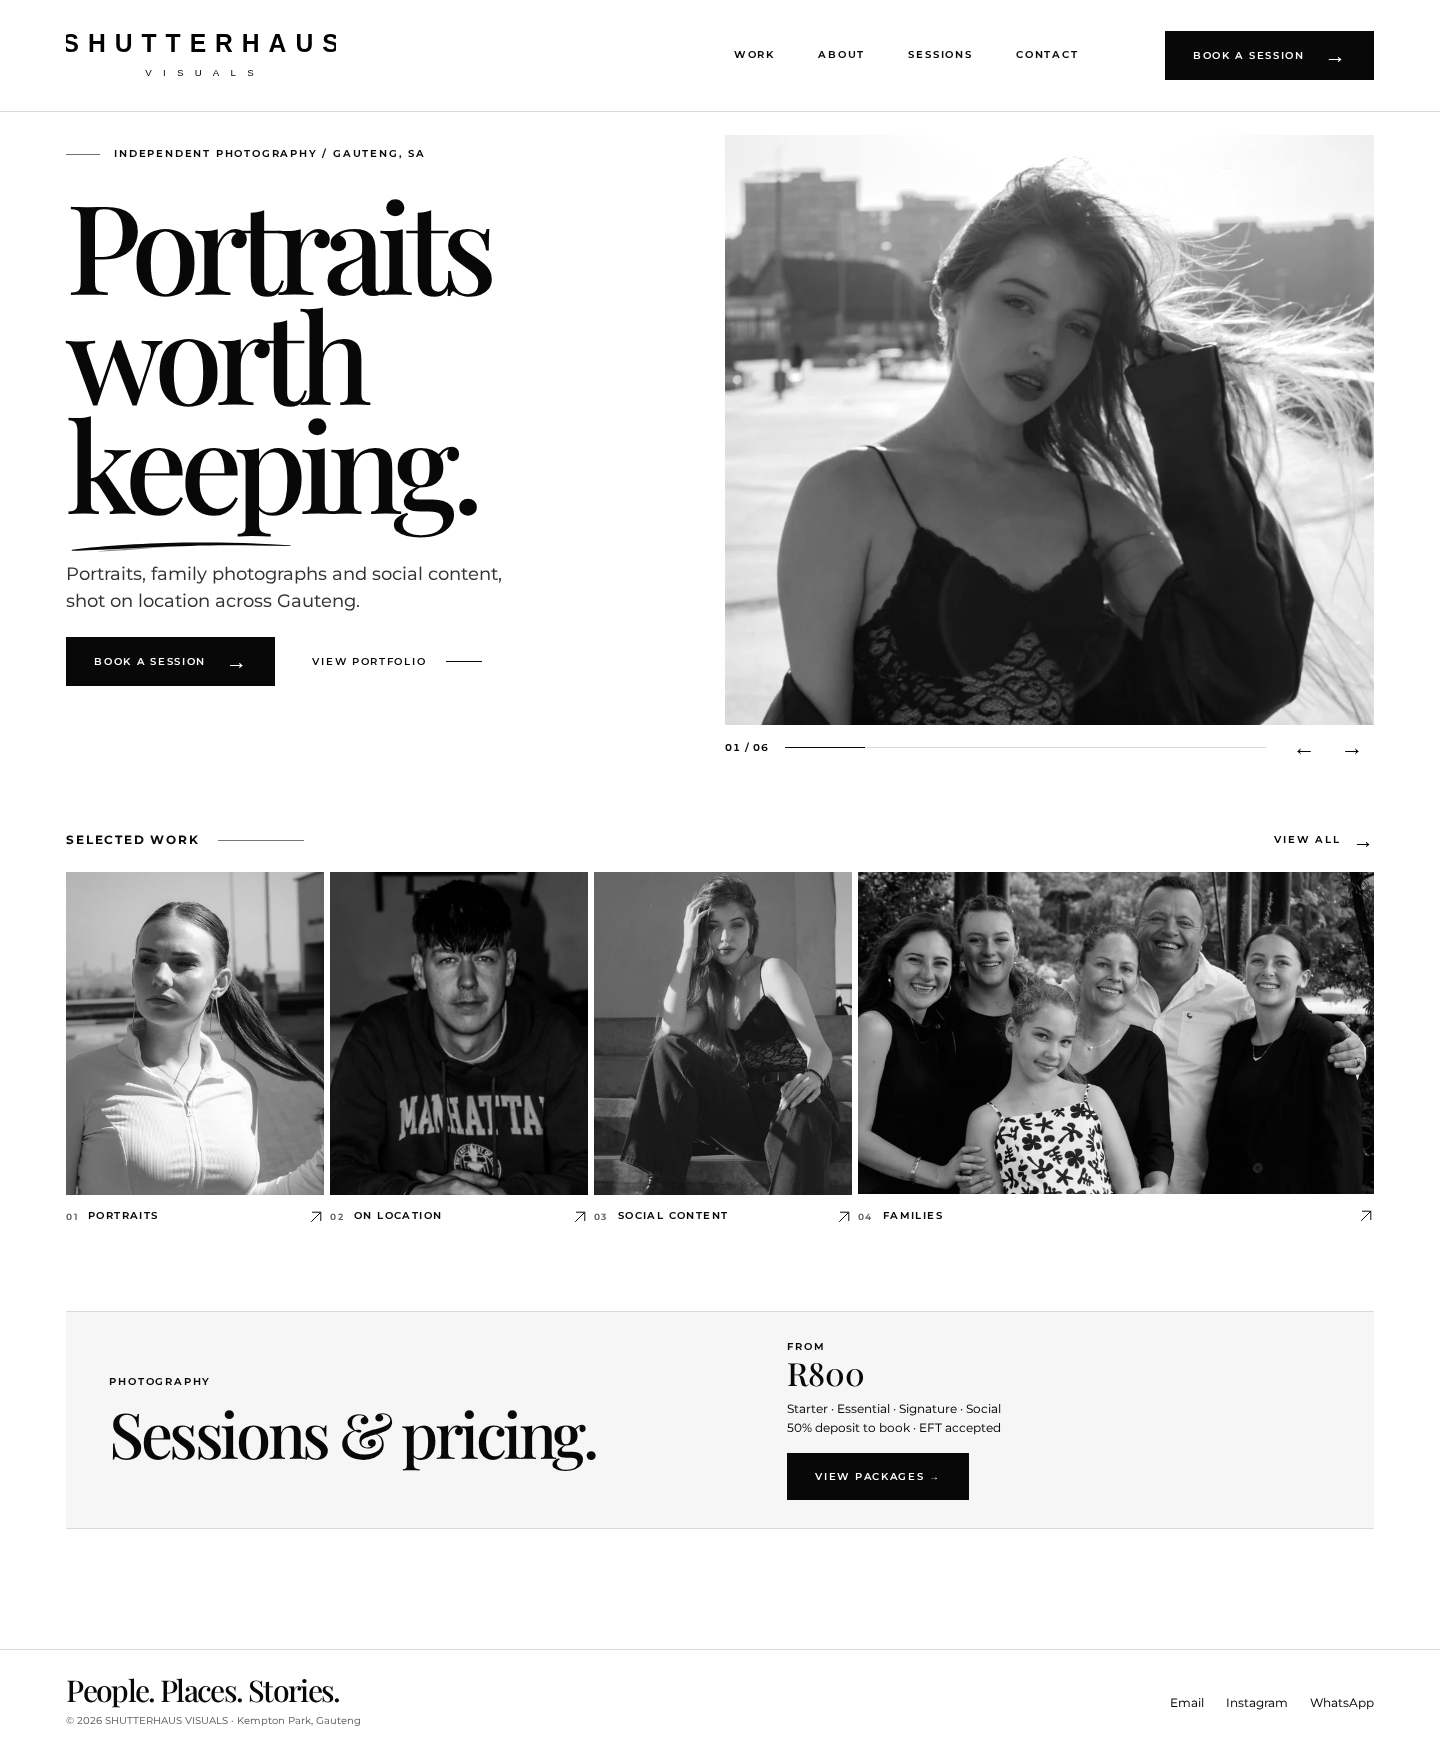
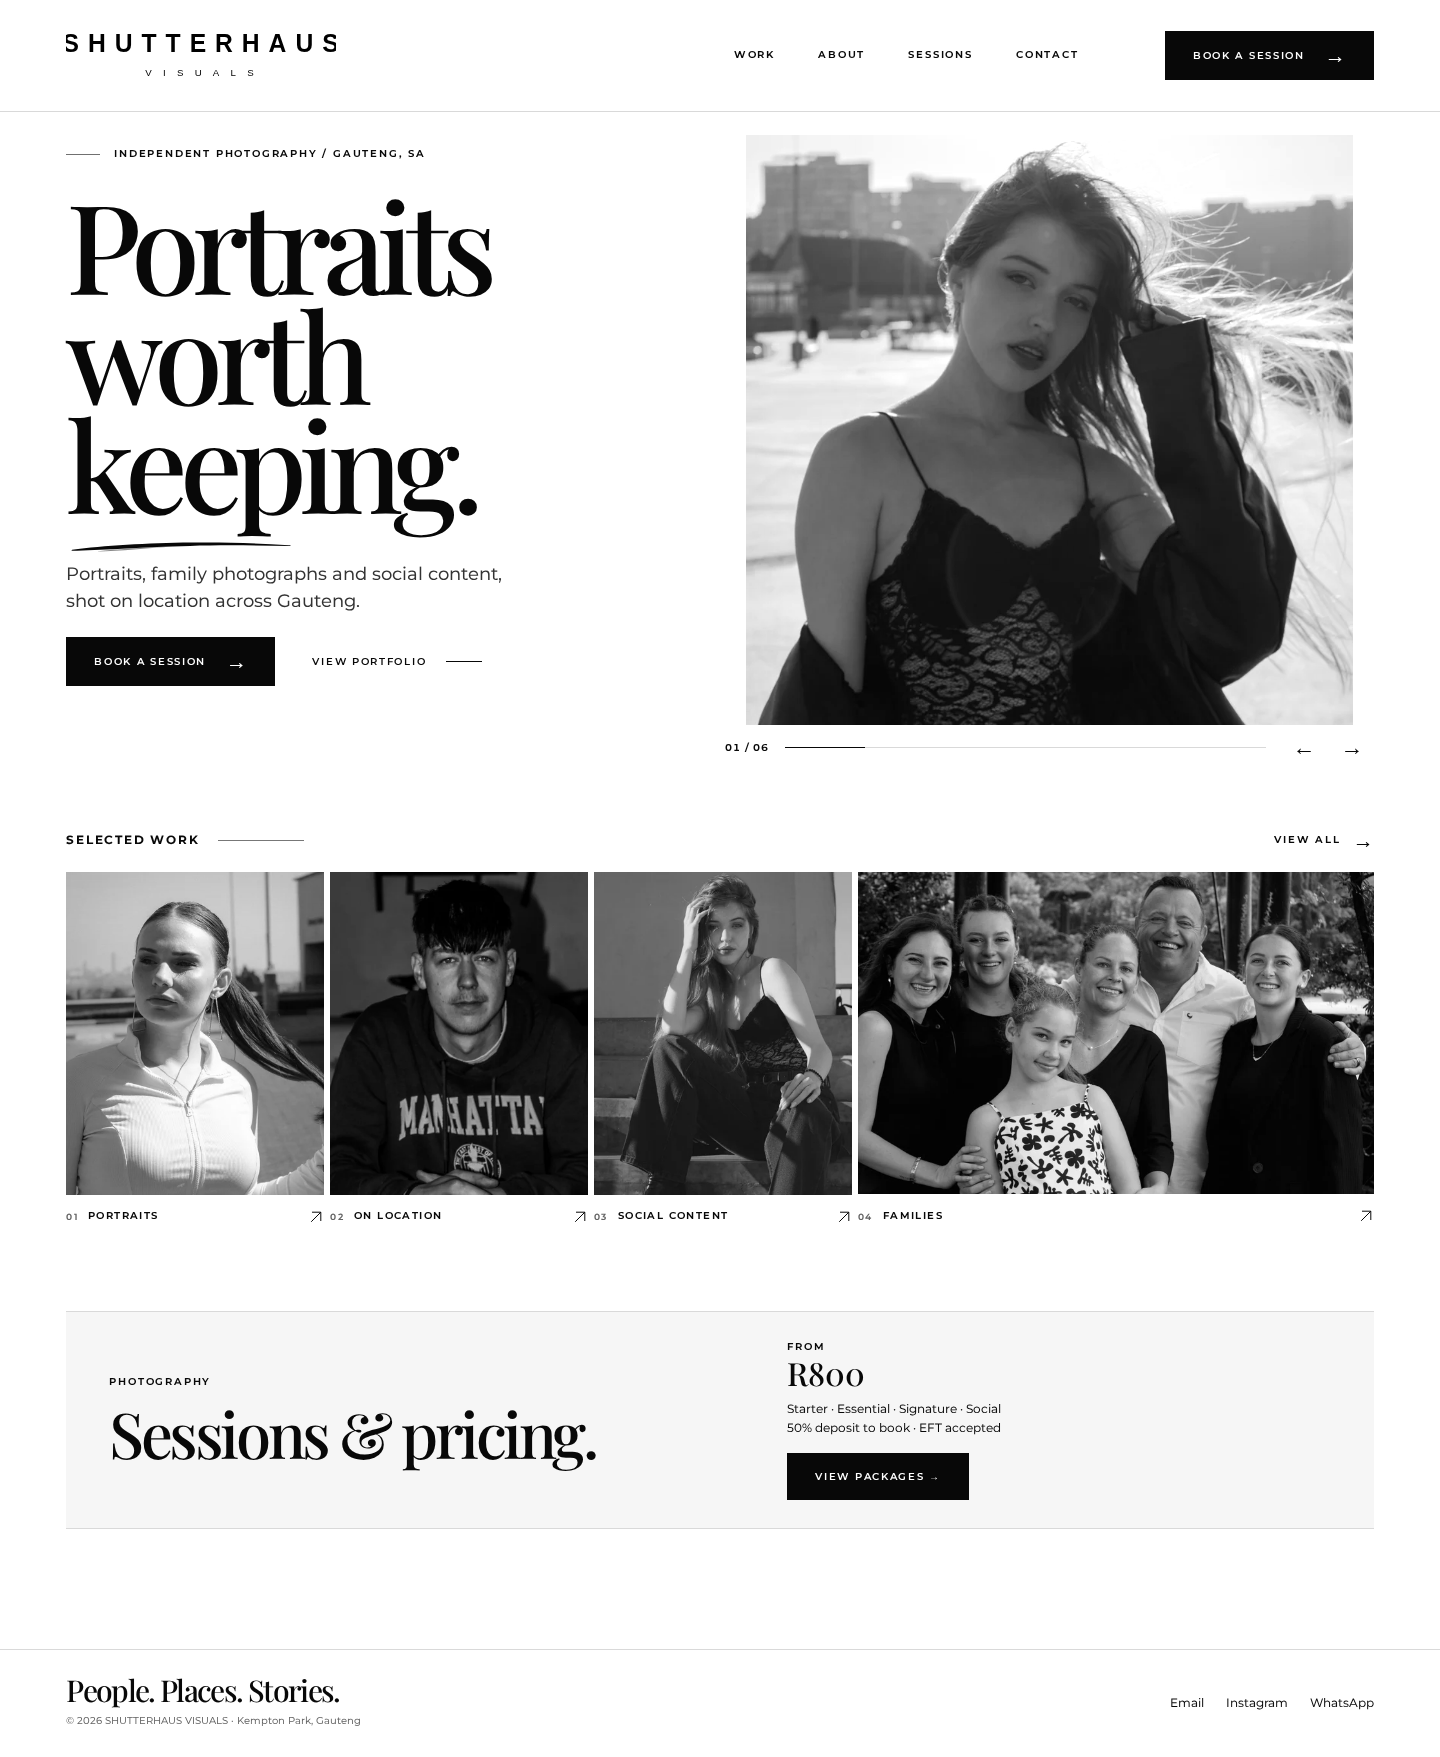
Frame each of the six homepage hero photographs for its composition

Changed region(s): [[0.5, 0.0615, 0.9688, 0.4303]]

diff --git a/index.html b/index.html
@@ -173,24 +173,24 @@
     <div class="hero">
       <div class="hero__title"><p class="eyebrow eyebrow--rule"><span>Independent photography / <span class="hero__location">Gauteng, SA</span></span></p>
         <h1 class="hero__h">Portraits<br> worth<br> <span class="hero__signoff">keeping.<svg class="hero__underline" viewBox="0 0 192 11" aria-hidden="true" focusable="false"><path fill="currentColor" d="M1 8.4C28 4.9 66 2.6 104.6 2.2c26.5-.4 54.2.4 84.7 2.4 1.9.2 2.4.6.5.7-31.9-.7-60.9-1-86.5-.1C62.4 6.1 30.3 8.7 5.2 9.3c-4.3.1-5.9-.2-4.2-.9Z"/><path fill="currentColor" opacity=".48" d="M22 10c19.2-2.1 38.5-3.2 62.7-4.1-17.8 1.4-40.8 3.7-62.7 4.1Z"/></svg></span></h1></div>
-      <div class="hero__media"><div class="hero__plate"><figure class="hero__fig" data-frame="c7"><picture class="hero-photo" style="--focal:center top"><source type="image/webp" srcset="gallery/22-img-0239-400w.webp 400w, gallery/22-img-0239-560w.webp 560w, gallery/22-img-0239-800w.webp 800w, gallery/22-img-0239-1200w.webp 1200w, gallery/22-img-0239-1600w.webp 1600w" sizes="(max-width: 759px) 92vw, (max-width: 1536px) 47vw, 685px" />
+      <div class="hero__media"><div class="hero__plate"><figure class="hero__fig" data-frame="c7"><picture class="hero-photo" style="--photo-ratio:1.03;--focal:50% 12%"><source type="image/webp" srcset="gallery/22-img-0239-400w.webp 400w, gallery/22-img-0239-560w.webp 560w, gallery/22-img-0239-800w.webp 800w, gallery/22-img-0239-1200w.webp 1200w, gallery/22-img-0239-1600w.webp 1600w" sizes="(max-width: 759px) 92vw, (max-width: 1536px) 47vw, 685px" />
         <source type="image/jpeg" srcset="gallery/22-img-0239-400w.jpg 400w, gallery/22-img-0239-560w.jpg 560w, gallery/22-img-0239-800w.jpg 800w, gallery/22-img-0239-1200w.jpg 1200w, gallery/22-img-0239-1600w.jpg 1600w" sizes="(max-width: 759px) 92vw, (max-width: 1536px) 47vw, 685px" /><img src="gallery/22-img-0239-1600w.jpg" alt="Close portrait of a woman with loose hair, warm light across her face"
       width="2065" height="2400" decoding="async" loading="eager" fetchpriority="high" /></picture></figure></div><div class="hero__controls" role="group" aria-label="Featured photographs" style="--frame-progress:0.16666666666666666" hidden>
       <span data-slide-count aria-live="polite" aria-atomic="true">01 / 06</span>
       <span class="hero__track" aria-hidden="true"></span>
       <button type="button" data-step="-1" aria-label="Previous featured photograph"><span aria-hidden="true">←</span></button>
       <button type="button" data-step="1" aria-label="Next featured photograph"><span aria-hidden="true">→</span></button>
-    </div><p class="hero__notice" role="status"></p><template data-slide="c7"><picture class="hero-photo" style="--focal:center top"><source type="image/webp" srcset="gallery/22-img-0239-400w.webp 400w, gallery/22-img-0239-560w.webp 560w, gallery/22-img-0239-800w.webp 800w, gallery/22-img-0239-1200w.webp 1200w, gallery/22-img-0239-1600w.webp 1600w" sizes="(max-width: 759px) 92vw, (max-width: 1536px) 47vw, 685px" />
+    </div><p class="hero__notice" role="status"></p><template data-slide="c7"><picture class="hero-photo" style="--photo-ratio:1.03;--focal:50% 12%"><source type="image/webp" srcset="gallery/22-img-0239-400w.webp 400w, gallery/22-img-0239-560w.webp 560w, gallery/22-img-0239-800w.webp 800w, gallery/22-img-0239-1200w.webp 1200w, gallery/22-img-0239-1600w.webp 1600w" sizes="(max-width: 759px) 92vw, (max-width: 1536px) 47vw, 685px" />
         <source type="image/jpeg" srcset="gallery/22-img-0239-400w.jpg 400w, gallery/22-img-0239-560w.jpg 560w, gallery/22-img-0239-800w.jpg 800w, gallery/22-img-0239-1200w.jpg 1200w, gallery/22-img-0239-1600w.jpg 1600w" sizes="(max-width: 759px) 92vw, (max-width: 1536px) 47vw, 685px" /><img src="gallery/22-img-0239-1600w.jpg" alt="Close portrait of a woman with loose hair, warm light across her face"
-      width="2065" height="2400" decoding="async" loading="eager" fetchpriority="high" /></picture></template><template data-slide="c43"><picture class="hero-photo" style="--focal:50% 2.5%"><source type="image/webp" srcset="gallery/5-img-0086-400w.webp 400w, gallery/5-img-0086-560w.webp 560w, gallery/5-img-0086-800w.webp 800w, gallery/5-img-0086-1200w.webp 1200w, gallery/5-img-0086-1600w.webp 1600w" sizes="(max-width: 759px) 92vw, (max-width: 1536px) 47vw, 685px" />
+      width="2065" height="2400" decoding="async" loading="eager" fetchpriority="high" /></picture></template><template data-slide="c43"><picture class="hero-photo" style="--photo-ratio:0.7;--focal:50% 0%"><source type="image/webp" srcset="gallery/5-img-0086-400w.webp 400w, gallery/5-img-0086-560w.webp 560w, gallery/5-img-0086-800w.webp 800w, gallery/5-img-0086-1200w.webp 1200w, gallery/5-img-0086-1600w.webp 1600w" sizes="(max-width: 759px) 92vw, (max-width: 1536px) 47vw, 685px" />
         <source type="image/jpeg" srcset="gallery/5-img-0086-400w.jpg 400w, gallery/5-img-0086-560w.jpg 560w, gallery/5-img-0086-800w.jpg 800w, gallery/5-img-0086-1200w.jpg 1200w, gallery/5-img-0086-1600w.jpg 1600w" sizes="(max-width: 759px) 92vw, (max-width: 1536px) 47vw, 685px" /><img src="gallery/5-img-0086-1600w.jpg" alt="A seated man in a Manhattan sweatshirt looks into the camera, hands clasped"
-      width="1600" height="2400" decoding="async" loading="eager" fetchpriority="high" /></picture></template><template data-slide="c47"><picture class="hero-photo" style="--focal:50% 29%"><source type="image/webp" srcset="gallery/2-20240718114526-img-0124-400w.webp 400w, gallery/2-20240718114526-img-0124-560w.webp 560w, gallery/2-20240718114526-img-0124-800w.webp 800w, gallery/2-20240718114526-img-0124-1200w.webp 1200w, gallery/2-20240718114526-img-0124-1600w.webp 1600w" sizes="(max-width: 759px) 92vw, (max-width: 1536px) 47vw, 685px" />
+      width="1600" height="2400" decoding="async" loading="eager" fetchpriority="high" /></picture></template><template data-slide="c47"><picture class="hero-photo" style="--photo-ratio:0.82;--focal:50% 55%"><source type="image/webp" srcset="gallery/2-20240718114526-img-0124-400w.webp 400w, gallery/2-20240718114526-img-0124-560w.webp 560w, gallery/2-20240718114526-img-0124-800w.webp 800w, gallery/2-20240718114526-img-0124-1200w.webp 1200w, gallery/2-20240718114526-img-0124-1600w.webp 1600w" sizes="(max-width: 759px) 92vw, (max-width: 1536px) 47vw, 685px" />
         <source type="image/jpeg" srcset="gallery/2-20240718114526-img-0124-400w.jpg 400w, gallery/2-20240718114526-img-0124-560w.jpg 560w, gallery/2-20240718114526-img-0124-800w.jpg 800w, gallery/2-20240718114526-img-0124-1200w.jpg 1200w, gallery/2-20240718114526-img-0124-1600w.jpg 1600w" sizes="(max-width: 759px) 92vw, (max-width: 1536px) 47vw, 685px" /><img src="gallery/2-20240718114526-img-0124-1600w.jpg" alt="Portrait of a woman in a white top outdoors, hair pulled back, in bright light"
-      width="1600" height="2400" decoding="async" loading="eager" fetchpriority="high" /></picture></template><template data-slide="c1"><picture class="hero-photo" style="--focal:50% 0%"><source type="image/webp" srcset="gallery/20-img-0202-400w.webp 400w, gallery/20-img-0202-560w.webp 560w, gallery/20-img-0202-800w.webp 800w, gallery/20-img-0202-1200w.webp 1200w" sizes="(max-width: 759px) 92vw, (max-width: 1536px) 47vw, 685px" />
+      width="1600" height="2400" decoding="async" loading="eager" fetchpriority="high" /></picture></template><template data-slide="c1"><picture><source type="image/webp" srcset="gallery/20-img-0202-400w.webp 400w, gallery/20-img-0202-560w.webp 560w, gallery/20-img-0202-800w.webp 800w, gallery/20-img-0202-1200w.webp 1200w" sizes="(max-width: 759px) 92vw, (max-width: 1536px) 47vw, 685px" />
         <source type="image/jpeg" srcset="gallery/20-img-0202-400w.jpg 400w, gallery/20-img-0202-560w.jpg 560w, gallery/20-img-0202-800w.jpg 800w, gallery/20-img-0202-1200w.jpg 1200w" sizes="(max-width: 759px) 92vw, (max-width: 1536px) 47vw, 685px" /><img src="gallery/20-img-0202-1200w.jpg" alt="A woman in black seated on sunlit outdoor steps with her hand in her hair"
-      width="1350" height="2400" decoding="async" loading="eager" fetchpriority="high" /></picture></template><template data-slide="c16"><picture class="hero-photo--full" style="--focal:50% 0%"><source type="image/webp" srcset="gallery/54-img-0164-400w.webp 400w, gallery/54-img-0164-560w.webp 560w, gallery/54-img-0164-800w.webp 800w, gallery/54-img-0164-1200w.webp 1200w, gallery/54-img-0164-1600w.webp 1600w" sizes="(max-width: 759px) 92vw, (max-width: 1536px) 47vw, 685px" />
+      width="1350" height="2400" decoding="async" loading="eager" fetchpriority="high" /></picture></template><template data-slide="c16"><picture><source type="image/webp" srcset="gallery/54-img-0164-400w.webp 400w, gallery/54-img-0164-560w.webp 560w, gallery/54-img-0164-800w.webp 800w, gallery/54-img-0164-1200w.webp 1200w, gallery/54-img-0164-1600w.webp 1600w" sizes="(max-width: 759px) 92vw, (max-width: 1536px) 47vw, 685px" />
         <source type="image/jpeg" srcset="gallery/54-img-0164-400w.jpg 400w, gallery/54-img-0164-560w.jpg 560w, gallery/54-img-0164-800w.jpg 800w, gallery/54-img-0164-1200w.jpg 1200w, gallery/54-img-0164-1600w.jpg 1600w" sizes="(max-width: 759px) 92vw, (max-width: 1536px) 47vw, 685px" /><img src="gallery/54-img-0164-1600w.jpg" alt="Family portrait of six people outdoors, laughing together on a path"
-      width="2400" height="1499" decoding="async" loading="eager" fetchpriority="high" /></picture></template><template data-slide="c44"><picture class="hero-photo" style="--focal:50% 20%"><source type="image/webp" srcset="gallery/18-img-0043-400w.webp 400w, gallery/18-img-0043-560w.webp 560w, gallery/18-img-0043-800w.webp 800w, gallery/18-img-0043-1200w.webp 1200w, gallery/18-img-0043-1600w.webp 1600w" sizes="(max-width: 759px) 92vw, (max-width: 1536px) 47vw, 685px" />
+      width="2400" height="1499" decoding="async" loading="eager" fetchpriority="high" /></picture></template><template data-slide="c44"><picture class="hero-photo" style="--photo-ratio:0.77;--focal:50% 42%"><source type="image/webp" srcset="gallery/18-img-0043-400w.webp 400w, gallery/18-img-0043-560w.webp 560w, gallery/18-img-0043-800w.webp 800w, gallery/18-img-0043-1200w.webp 1200w, gallery/18-img-0043-1600w.webp 1600w" sizes="(max-width: 759px) 92vw, (max-width: 1536px) 47vw, 685px" />
         <source type="image/jpeg" srcset="gallery/18-img-0043-400w.jpg 400w, gallery/18-img-0043-560w.jpg 560w, gallery/18-img-0043-800w.jpg 800w, gallery/18-img-0043-1200w.jpg 1200w, gallery/18-img-0043-1600w.jpg 1600w" sizes="(max-width: 759px) 92vw, (max-width: 1536px) 47vw, 685px" /><img src="gallery/18-img-0043-1600w.jpg" alt="Black and white portrait of a woman outdoors, looking down"
       width="1600" height="2400" decoding="async" loading="eager" fetchpriority="high" /></picture></template></div>
       <div class="hero__info"><p class="hero__lede">Portraits, family photographs and social content, shot on location across Gauteng.</p>

diff --git a/src/public.css b/src/public.css
@@ -72,11 +72,17 @@ a:focus-visible, button:focus-visible, input:focus-visible, textarea:focus-visib
 .hero__signoff { position: relative; display: inline-block; }
 .hero__underline { position: absolute; left: .04em; bottom: -.28em; width: 54%; height: auto; display: block; overflow: visible; pointer-events: none; }
 .hero__media { min-width: 0; grid-row: 1/3; grid-column: 2; align-self: start; }
-.hero__plate { position: relative; isolation: isolate; }
-.hero__fig { position: relative; aspect-ratio: 1.1; overflow: hidden; margin: 0; background: var(--wash); }
+.hero__plate { --hero-stage-ratio: 1.1; position: relative; isolation: isolate; }
+.hero__fig { position: relative; aspect-ratio: var(--hero-stage-ratio); overflow: hidden; margin: 0; background: var(--paper); }
 .hero__fig picture, .hero__fig img, .hero__outgoing, .hero__outgoing img { display: block; width: 100%; height: 100%; }
-.hero__fig img, .hero__outgoing img { object-fit: cover; object-position: var(--focal, 50% 20%); filter: grayscale(1) contrast(1.07); }
-.hero-photo--full img { object-fit: contain; background: #191919; }
+.hero__fig picture, .hero__outgoing { background: var(--paper); }
+.hero__fig img, .hero__outgoing img { object-fit: contain; filter: grayscale(1) contrast(1.07); }
+.hero__plate .hero-photo img {
+  width: min(100%, calc(100% * var(--photo-ratio) / var(--hero-stage-ratio)));
+  margin-inline: auto;
+  object-fit: cover;
+  object-position: var(--focal);
+}
 .hero__outgoing { position: absolute; inset: 0; pointer-events: none; }
 .hero__controls { display: flex; align-items: center; gap: 4px; min-height: 46px; }
 .hero__track { flex: 1; height: 1px; margin: 0 12px; background: var(--line); }
@@ -288,7 +294,7 @@ a:focus-visible, button:focus-visible, input:focus-visible, textarea:focus-visib
   .hero__location { display: block; }
   .page .hero__h { font-size: clamp(57px, 16.8vw, 94px); line-height: .9; }
   .hero__media { width: 100%; margin-top: 34px; padding: 0; }
-  .hero__fig { aspect-ratio: 1.2; }
+  .hero__plate { --hero-stage-ratio: 1.2; }
   .hero__info { padding-top: 6px; }
   .hero__lede { font-size: 15px; line-height: 1.48; max-width: 37ch; }
   .hero__actions { margin-top: 18px; gap: 3px 16px; }

diff --git a/src/pages.ts b/src/pages.ts
@@ -690,6 +690,13 @@ function cheapestTier(): { name: string; price: number } | null {
   return [...tiers].sort((a, b) => n(a) - n(b))[0]!;
 }
 
+const HERO_CROPS: Record<string, { ratio: number; position: string }> = {
+  "22-img-0239.jpg": { ratio: 1.03, position: "50% 12%" },
+  "5-img-0086.jpg": { ratio: .70, position: "50% 0%" },
+  "2-20240718114526-img-0124.jpg": { ratio: .82, position: "50% 55%" },
+  "18-img-0043.jpg": { ratio: .77, position: "50% 42%" },
+};
+
 export function homePage(photos: Photo[], _cols: number): string {
   const h = SITE.home;
   const visible = photos.filter(photo => photo.visible);
@@ -710,11 +717,9 @@ export function homePage(photos: Photo[], _cols: number): string {
     const source = seatedCrop
       ? `<source type="image/webp" sizes="${coverSizes}" srcset="${[520, 960, 1300].map(w => `./gallery/27-img-0297-cover-${w}.webp ${w}w`).join(", ")}" />`
       : pictureFor(photo.url, coverSizes, photo.width);
-    const edit = WORK_EDITS.find(edit => edit.cover === photo.filename);
-    const family = WORK_EDITS.find(edit => edit.key === "families")!;
-    const fullFrame = belongsToEdit(photo, family) && (photo.width ?? 0) > (photo.height ?? 0);
-    const position = seatedCrop || photo.filename === "22-img-0239.jpg" ? "center top" : edit?.position ?? "50% 20%";
-    return `<picture class="${fullFrame ? "hero-photo--full" : "hero-photo"}" style="--focal:${position}">${source}<img src="${escapeHtml(bestDerivative(photo.url, "jpg", photo.width))}" alt="${escapeHtml(photo.alt || photo.filename || "Featured photograph")}"
+    const crop = photo.filename ? HERO_CROPS[photo.filename] : undefined;
+    const framing = crop ? ` class="hero-photo" style="--photo-ratio:${crop.ratio};--focal:${crop.position}"` : "";
+    return `<picture${framing}>${source}<img src="${escapeHtml(bestDerivative(photo.url, "jpg", photo.width))}" alt="${escapeHtml(photo.alt || photo.filename || "Featured photograph")}"
       width="${seatedCrop ? 1300 : photo.width || 1200}" height="${seatedCrop ? 1300 : photo.height || 1200}" decoding="async" loading="eager" fetchpriority="high" /></picture>`;
   };
   const first = slides[0];

diff --git a/tests/safari-layout.spec.ts b/tests/safari-layout.spec.ts
@@ -89,7 +89,7 @@ for (const viewport of viewports) {
             await page.locator('.lb__x').click();
             await expect(opener).toBeFocused();
           }
-          await frames('Home hero','.hero__fig picture',true);
+          await frames('Home hero','.hero__fig picture',false);
         }
         if (route==='services') {
           for (const tier of ['Starter','Essential','Signature','Social']) {

diff --git a/src/DESIGN.md b/src/DESIGN.md
@@ -4,7 +4,7 @@ Use the desktop Home, mobile Home / Work / Contact and brand boards supplied on 
 
 ## Home and Work
 
-Desktop leads with a three-line heading at left and a 1.1:1 photograph at right. The six-frame carousel places its count, progress line and arrows below the image on all screens. Its selected frame survives a gallery refresh. The primary cover is the windblown outdoor portrait. Its focal point preserves the crown of the head on both screen shapes. Landscape group slides show the complete frame. Each selected photograph enlarges and its separate caption opens the collection. On phones the three portraits sit above the full-width family photograph.
+Desktop leads with a three-line heading at left and a 1.1:1 photograph at right. The six-frame carousel places its count, progress line and arrows below the image on all screens. Its selected frame survives a gallery refresh. The primary cover is the windblown outdoor portrait. Four hero portraits have their own crop and focal point. The seated portrait on the steps and the family group show their full compositions. Each image is centered on the same white canvas so the arrows stay in place. Each selected photograph enlarges and its separate caption opens the collection. On phones the three portraits sit above the full-width family photograph.
 
 Selected Work uses 4:5 frames for the three individual portraits. The family photograph finishes both selections in its original proportions. On Portfolio, a Landscapes cover immediately precedes Families and opens the photographer’s visible landscape photographs in their original proportions. Work keeps its collection labels on the covers. Home keeps the captions underneath.
 
